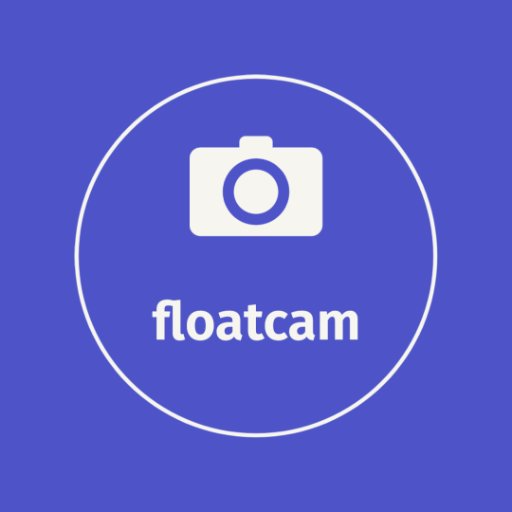
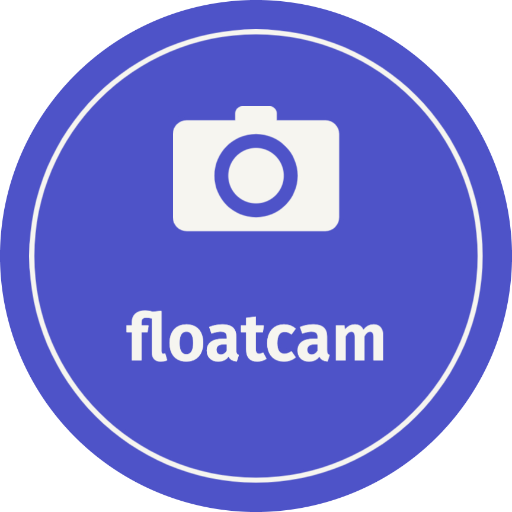
Add electron forge config

diff --git a/forge.config.js b/forge.config.js
@@ -1,0 +1,29 @@
+module.exports = {
+  packagerConfig: {},
+  rebuildConfig: {},
+  config: {
+    forge: {
+      packagerConfig: {
+        icon: 'images/icon',
+      }
+    }
+  },
+  makers: [
+    {
+      name: '@electron-forge/maker-squirrel',
+      config: {},
+    },
+    {
+      name: '@electron-forge/maker-zip',
+      platforms: ['darwin'],
+    },
+    {
+      name: '@electron-forge/maker-deb',
+      config: {},
+    },
+    {
+      name: '@electron-forge/maker-rpm',
+      config: {},
+    },
+  ],
+};
